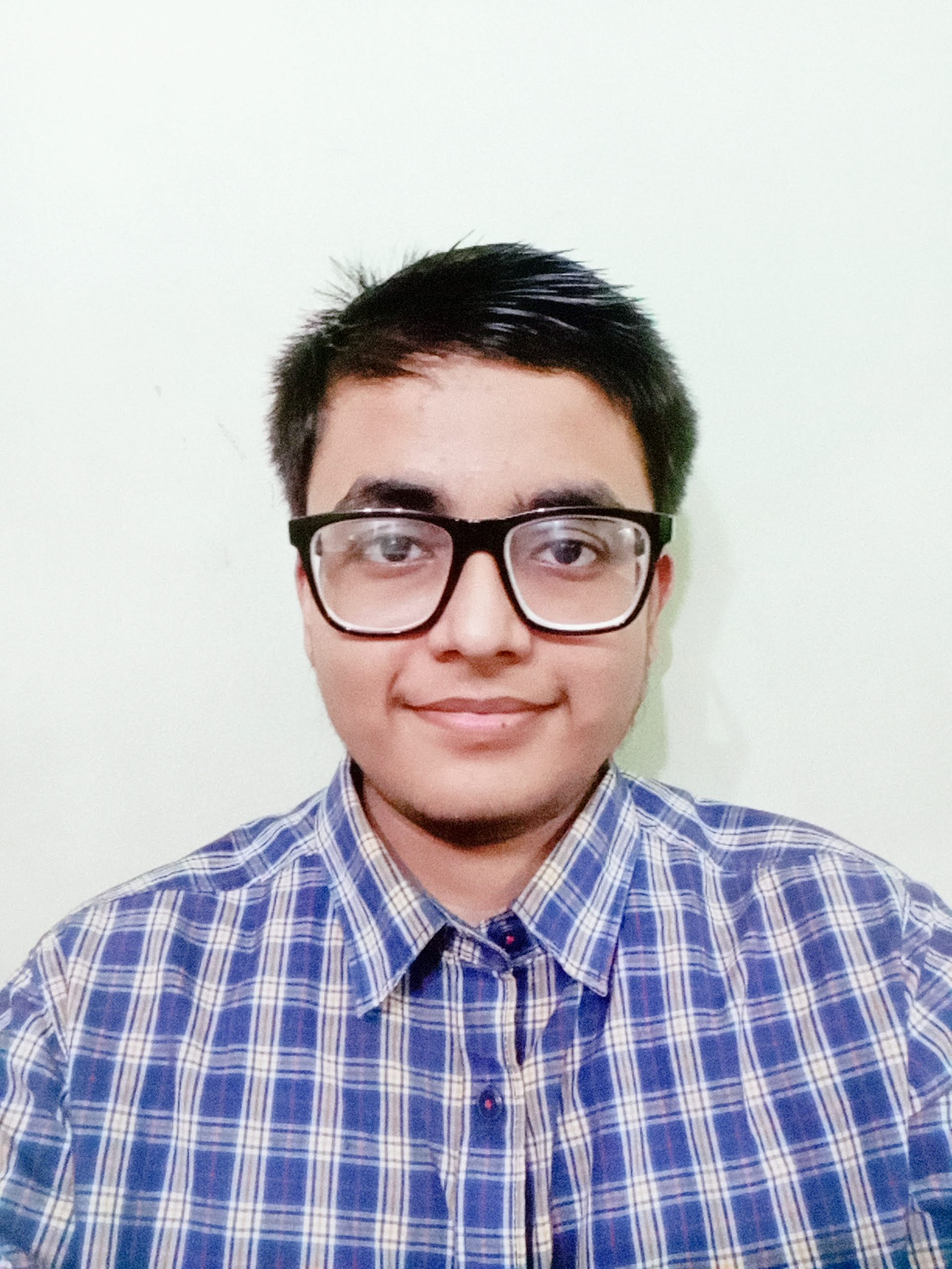
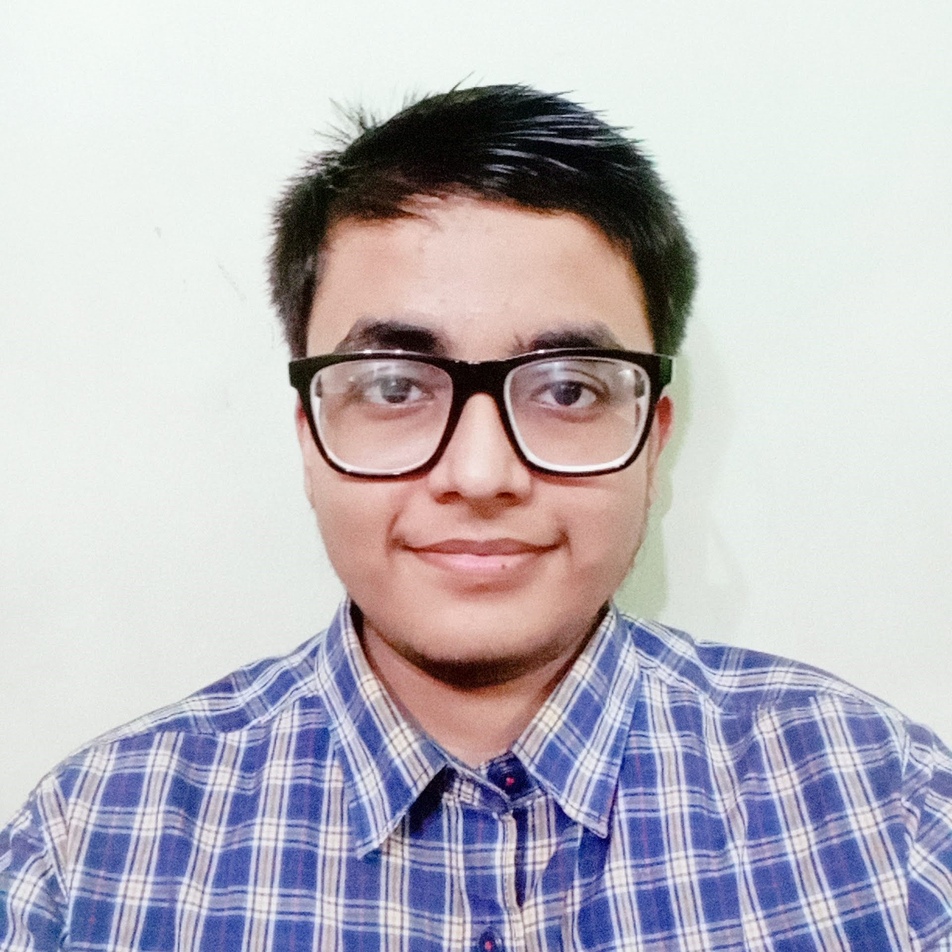
consistent images for contact details and about us

diff --git a/aboutus.html b/aboutus.html
@@ -109,66 +109,10 @@
 
     <section id="about" class="about-mf sect-pt4 route">
       <div class="container">
-        <div class="row">
-          <div class="col-sm-12">
-            <div class="title-box text-center">
-              <h3 class="title-a">About us</h3>
-              <p class="subtitle-a">
-                <!-- Yogastha -->
-              </p>
-              <div class="line-mf"></div>
-            </div>
-
-            <ul class="nav nav-tabs justify-content-center fixed fs-5">
-              <li class="nav-item">
-                <a class="nav-link" href="#presentteam">Present Team</a>
-              </li>
-
-              <li class="nav-item">
-                <a class="nav-link" href="#previousteam">Previous CTMs</a>
-              </li>
-
-              <!-- <li class="nav-item">
-              <a class="nav-link" href="#foundingmembers">Founding Members</a>
-            </li> -->
-
-              <li class="nav-item">
-                <a class="nav-link" href="#career">Life @Yogastha</a>
-              </li>
-            </ul>
-          </div>
-        </div>
-
-        <!-- A Brief History -->
-        <!-- <section id="history" class="about-mf sect-pt4 route">
-        <div class="container">
-          <div class="row">
-            <div class="col-sm-12">
-              <div class="title-box-1">
-                <h5 class="title-left">
-                  A Brief History
-                </h5>
-              </div>
-
-
-
-
-              <p class="lead">
-                Coming soon...
-                
-              </p>
-
-
-
-            </div>
-          </div>
-        </div>
-      </section> -->
 
         <!-- Section presentteam   -->
         <section id="presentteam" class="about-mf sect-pt4 route">
           <div class="container">
-            <div class="row">
               <div class="col-sm-12">
                 <div class="title-box-1">
                   <h5 class="title-left">Present Team</h5>
@@ -183,27 +127,23 @@
                   <div class="container">
                     <div id="managersContainer" class="row"></div>
                   </div>
-                </div>
-
-                <div class="box-shadow-full">
+                  <br />
                   <div class="title-box-2">
                     <h5 class="title-left">Core Team Members</h5>
                   </div>
                   <div class="container">
                     <div id="coreTeamMembersContainer" class="row"></div>
                   </div>
-                </div>
+                  <br />
 
-                <div class="box-shadow-full">
                   <div class="title-box-2">
                     <h5 class="title-left">Coordinators</h5>
                   </div>
                   <div class="container">
                     <div id="coordinatorsContainer" class="row"></div>
                   </div>
-                </div>
+                  <br />
 
-                <div class="box-shadow-full">
                   <div class="title-box-2">
                     <h5 class="title-left">Senior Team Members - Voluntary Support & Guidance</h5>
                   </div>
@@ -213,30 +153,19 @@
                 </div>
               </div>
             </div>
-          </div>
         </section>
         <!-- Section previous team -->
         <section id="previousteam" class="about-mf sect-pt4 route">
           <div class="container">
-            <div class="row">
-              <div class="col-sm-12">
-                <div class="title-box-1">
-                  <h5 class="title-left">Previous CTMS</h5>
-                </div>
+            <div class="title-box-1">
+              <h5 class="title-left">Previous CTMS</h5>
+                  <br />
+                  <br />
+            </div>
 
-                <div class="container">
-                  <div class="row">
-                    <div class="col-sm-12">
-                      <div class="contact-mf">
-                        <div id="contact" class="box-shadow-full">
-                          <div id="dropdownContainer">
-                            <!-- Dropdowns will be dynamically added here -->
-                          </div>
-                        </div>
-                      </div>
-                    </div>
-                  </div>
-                </div>
+              <div class="box-shadow-full">
+              <div id="dropdownContainer" class="row">
+                <!-- Dropdowns will be dynamically added here -->
               </div>
             </div>
           </div>
@@ -291,12 +220,14 @@
       {
         "members": [
           {
-            "name": "Nidhi Verma (PhD)",
-            "photo": "assets/img/CTMs/23-24/Nidhi - image.jpg"
+            "name": "Nidhi Verma",
+            "about": "(PhD)",
+            "photo": "assets/img/CTMs/25-26/Nidhi - image.jpg"
           },
           {
-            "name": "Krishna Gahlod (BTech)",
-            "photo": "assets/img/CTMs/23-24/Screenshot 2023-10-31 154803 - Krishna Gahlod.png"
+            "name": "Krishna Gahlod",
+            "about": "(BTech)",
+            "photo": "assets/img/CTMs/25-26/Krishna Gahlod.png"
           }
         ]
       }
@@ -306,59 +237,73 @@
       {
         "members": [
           {
-            "name": "Sarika P. Chavan (Resident)",
-            "photo": "assets/img/CTMs/23-24/FB_IMG_1632571666865 - sarika chavan.jpg"
+            "name": "Sarika P. Chavan",
+            "about": "(Resident)",
+            "photo": "assets/img/CTMs/25-26/sarika chavan.jpg"
           },
           {
-            "name": "Nainsi Gupta (PhD)",
-            "photo": "assets/img/CTMs/23-24/Screenshot_20240211_234418~2 - Nainsi Gupta.jpg"
+            "name": "Nainsi Gupta",
+            "about": "(PhD)",
+            "photo": "assets/img/CTMs/25-26/Nainsi Gupta.jpg"
           },
           {
-            "name": "Vamsi Triveni (BTech)",
-            "photo": "assets/img/CTMs/23-24/20240203_143827 - Vamsi Triveni Yenuganti.jpg"
+            "name": "Vamsi Triveni",
+            "about": "(BTech)",
+            "photo": "assets/img/CTMs/25-26/Vamsi Triveni Yenuganti.jpg"
           },
           {
-            "name": "Poornachandra Shwetha Ramesh Murthy (Staff)",
+            "name": "Poornachandra Shwetha Ramesh Murthy",
+            "about": "(Staff)",
             "photo": "assets/img/CTMs/25-26/Poornachandra Shwetha.jpg"
           },
           {
-            "name": "Anakapalli Chandrasekhar (MSc)",
+            "name": "Anakapalli Chandrasekhar",
+            "about": "(MSc)",
             "photo": "assets/img/CTMs/25-26/Anakapalli Chandra Sekhar.jpg"
           },
           {
-            "name": "Anusha Kumari (MA+PhD)",
+            "name": "Anusha Kumari",
+            "about": "(MA+PhD)",
             "photo": "assets/img/CTMs/25-26/Anusha Kumari.jpg"
           },
           {
-            "name": "Jyotilata mili (BTech)",
+            "name": "Jyotilata mili",
+            "about": "(BTech)",
             "photo": "assets/img/CTMs/25-26/Jyoti Lata.jpg"
           },
           {
-            "name": "Kartikey Gaur (MTech)",
+            "name": "Kartikey Gaur",
+            "about": "(MTech)",
             "photo": "assets/img/CTMs/25-26/Kartikey Gaur.jpg"
           },
           {
-            "name": "Mukund Raj (BTech)",
+            "name": "Mukund Raj",
+            "about": "(BTech)",
             "photo": "assets/img/CTMs/25-26/Mukund Raj.jpg"
           },
           {
-            "name": "Neha Kanwadiya (BTech)",
+            "name": "Neha Kanwadiya",
+            "about": "(BTech)",
             "photo": "assets/img/CTMs/25-26/Neha Kanwadiya.jpg"
           },
           {
-            "name": "Sahil (MTech)",
+            "name": "Sahil",
+            "about": "(MTech)",
             "photo": "assets/img/CTMs/25-26/Sahil Abhay Patil.jpg"
           },
           {
-            "name": "Turaga Hema Phani Harshita (MTech)",
+            "name": "Turaga Hema Phani Harshita",
+            "about": "(MTech)",
             "photo": "assets/img/CTMs/25-26/Turaga Hema Phani Harshita.png"
           },
           {
-            "name": "Vansil Chauhan (MTech)",
+            "name": "Vansil Chauhan",
+            "about": "(MTech)",
             "photo": "assets/img/CTMs/25-26/Vansil Rakeshkumar Chauhan.jpeg"
           },
           {
-            "name": "Venkateshwara Reddy K L (PhD)",
+            "name": "Venkateshwara Reddy K L",
+            "about": "(PhD)",
             "photo": "assets/img/CTMs/25-26/Venkateshwara Reddy.jpg"
           }
         ]
@@ -369,23 +314,28 @@
       {
         "members": [
           {
-            "name": "Guru Jahnavi Madana (BTech)",
+            "name": "Guru Jahnavi Madana",
+            "about": "(BTech)",
             "photo": "assets/img/CTMs/25-26/Guru Jahnavi Madana.jpg"
           },
           {
-            "name": "Rajeev Ranjan (MTech)",
+            "name": "Rajeev Ranjan",
+            "about": "(MTech)",
             "photo": "assets/img/CTMs/25-26/Rajeev Ranjan.JPG"
           },
           {
-            "name": "Sharath Kumar MD (BTech)",
+            "name": "Sharath Kumar MD",
+            "about": "(BTech)",
             "photo": "assets/img/CTMs/25-26/Sharath Kumar Md.jpeg"
           },
           {
-            "name": "Shivam Saini (BTech)",
+            "name": "Shivam Saini",
+            "about": "(BTech)",
             "photo": "assets/img/CTMs/25-26/Shivam Saini.jpg"
           },
           {
-            "name": "Vagvala Jitendra Kumar (PhD)",
+            "name": "Vagvala Jitendra Kumar",
+            "about": "(PhD)",
             "photo": "assets/img/CTMs/25-26/Jitendra Kumar.jpg"
           }
         ]
@@ -397,28 +347,34 @@
         "members": [
           
           {
-            "name": "Anika Matanhalia (DD)",
+            "name": "Anika Matanhalia",
+            "about": "(DD)",
             "photo": "assets/img/CTMs/25-26/Sample.jpg"
           },
           {
-            "name": "Deepika Meena (DD)",
-            "photo": "assets/img/Deepika Meena.jpg"
+            "name": "Deepika Meena",
+            "about": "(DD)",
+            "photo": "assets/img/CTMs/25-26/Deepika Meena.jpg"
           },
           {
-            "name": "Harshitha Inampudi (BTech)",
-            "photo": "assets/img/CTMs/23-24/Harshi_Original - Harshitha Inampudi.jpeg"
+            "name": "Harshitha Inampudi",
+            "about": "(BTech)",
+            "photo": "assets/img/CTMs/25-26/Harshitha Inampudi.jpeg"
           },
           {
-            "name": "Jitendra Sharma (PhD)",
-            "photo": "assets/img/Jitendra Sharma.jpg"
+            "name": "Jitendra Sharma",
+            "about": "(PhD)",
+            "photo": "assets/img/CTMs/25-26/Jitendra Sharma.jpg"
           },
           {
-            "name": "Shachi Bajpai (PhD)",
-            "photo": "assets/img/Shachi_bajpai.jpg"
+            "name": "Shachi Bajpai",
+            "about": "(PhD)",
+            "photo": "assets/img/CTMs/25-26/Shachi_bajpai.jpg"
           },
           {
-            "name": "Shubham Giri (PhD)",
-            "photo": "assets/img/shubham_giri.jpeg"
+            "name": "Shubham Giri",
+            "about": "(PhD)",
+            "photo": "assets/img/CTMs/25-26/shubham_giri.jpeg"
           }
         ]
       }
@@ -619,9 +575,10 @@
               col.className = "col-md-4 text-center";
 
               col.innerHTML = `
-                  <div class="box-shadow-full p-3">
+                  <div class="p-3">
+                    <img class="managerphoto mb-3" src="${member.photo}" alt="photo" height="150">
                     <h5>${member.name}</h5>
-                    <img class="managerphoto" src="${member.photo}" alt="photo" height="150">
+                    <h5>${member.about}</h5>
                   </div>
                 `;
 

diff --git a/contact-cards.html b/contact-cards.html
@@ -46,7 +46,7 @@
                             <img
                               align="center"
                               class="managerphoto"
-                              src="assets/img/CTMs/23-24/Nidhi - image.jpg"
+                              src="assets/img/CTMs/25-26/Nidhi - image.jpg"
                               alt="Nidhi Verma"
                               width="150"
                             />
@@ -60,7 +60,7 @@
                         </tr>
                       </thead>
                     </table>
-
+                    <br/>
                     <table class="text-center">
                       <thead>
                         <tr>
@@ -68,7 +68,7 @@
                             <img
                               align="center"
                               class="managerphoto"
-                              src="assets/img/CTMs/23-24/Screenshot 2023-10-31 154803 - Krishna Gahlod.png"
+                              src="assets/img/CTMs/25-26/Krishna Gahlod.png"
                               alt="Krishna Gahlod"
                               width="150"
                             />
